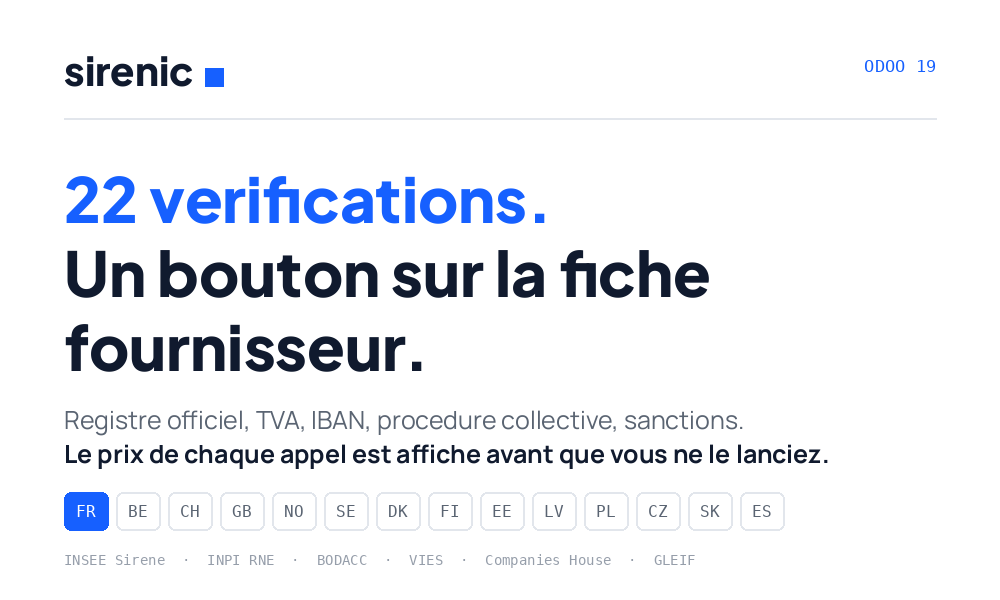
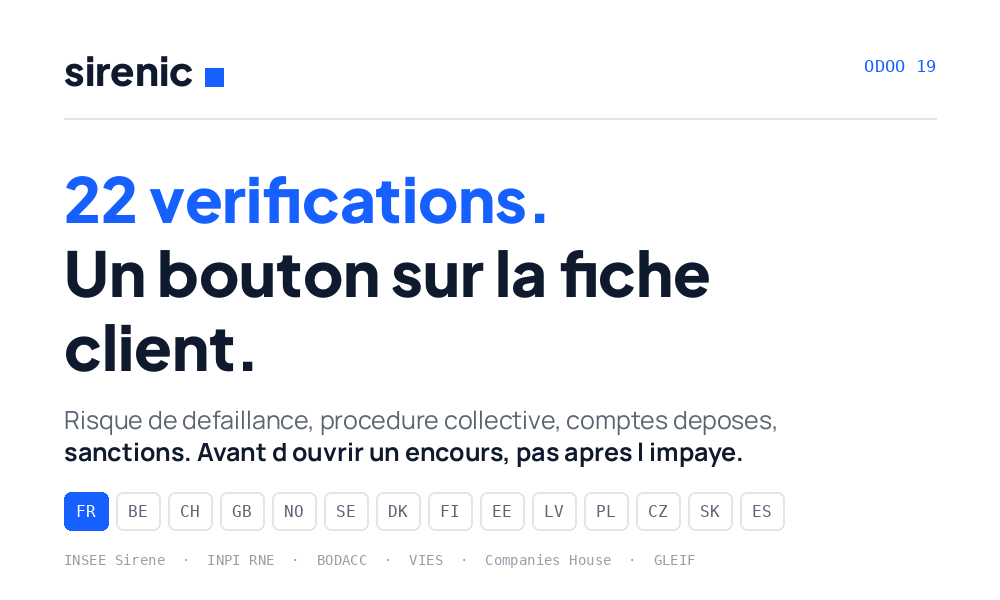
Recentrage sur le CLIENT : evaluer avant d ouvrir un encours, pas seulement verifier avant de payer.
POURQUOI. Le geste fournisseur repond a puis-je payer celui-ci ; le geste client repond a puis-je lui ouvrir un encours. Ce sont deux questions distinctes, sur deux routes distinctes, et la seconde touche bien plus de monde dans Odoo : tout le flux vente passe par la fiche client, et un impaye coute plus cher qu un virement mal adresse.

NOUVEAU GESTE PRINCIPAL : Evaluer ce client, sur /v1/score/defaillance. Il rend la classe de risque, le risque a 12 mois et les signaux BODACC. Verifier ce fournisseur reste, en second bouton : le module fait desormais les deux, dans cet ordre.

CE QUE LE RAPPORT DIT, ET QUI COMPTE PLUS QUE LE SCORE. (1) Un signal BODACC PRIME sur le score : une liquidation en cours ne se discute pas avec un ratio, l en-tete bascule au rouge et dit qu aucun encours ne devrait etre ouvert sans verification. (2) L AGE DES COMPTES est ecrit en clair des dix-huit mois - le dossier reel de l entreprise d essai s appuie sur un exercice vieux de VINGT mois, et un score bati la-dessus ne dit rien du trimestre en cours ; le taire rendrait le chiffre plus sur qu il ne l est. (3) L avertissement de l API est repris MOT POUR MOT : ni un avis de solvabilite, ni une notation de credit. Presenter ce score comme une notation ferait porter au lecteur une conclusion que la donnee ne permet pas.
[…]

Changed region(s): [[0.062, 0.69, 0.837, 0.78], [0.062, 0.54, 0.434, 0.63]]

diff --git a/sirenic/static/description/index.html b/sirenic/static/description/index.html
@@ -1,40 +1,45 @@
 <section class="oe_container">
   <div class="oe_row oe_spaced">
-    <h2 class="oe_slogan">V&#233;rifier un fournisseur avant de le payer</h2>
-    <h3 class="oe_slogan">Registre officiel, TVA, IBAN, proc&#233;dure collective, sanctions. France et 12 pays d'Europe.</h3>
+    <h2 class="oe_slogan">Savoir &#224; qui vous vendez, avant d'ouvrir un encours</h2>
+    <h3 class="oe_slogan">Risque de d&#233;faillance, proc&#233;dure collective, comptes d&#233;pos&#233;s, sanctions. France et 12 pays d'Europe.</h3>
   </div>
 
   <div class="oe_row oe_spaced">
     <div class="oe_span12">
       <p class="oe_mt32">
-        Un bouton sur la fiche contact r&#233;pond &#224; une question simple :
-        <b>peut-on payer cette entreprise ?</b> La r&#233;ponse arrive en trois secondes,
-        motiv&#233;e, tir&#233;e des registres officiels.
+        Un client vous demande 30 jours de paiement. Un bouton sur sa fiche vous
+        dit sa classe de risque, son risque de d&#233;faillance &#224; 12 mois, et si le
+        BODACC a publi&#233; une proc&#233;dure collective &#224; son nom. Trois secondes, avant
+        la commande, pas apr&#232;s l'impay&#233;.
       </p>
     </div>
   </div>
 
   <div class="oe_row oe_spaced">
     <div class="oe_span12">
-      <h3>Quatre gestes sur la fiche contact</h3>
+      <h3>Cinq gestes sur la fiche contact</h3>
       <p>
-        <b>V&#233;rifier avec Sirenic.</b> Identit&#233; au registre, num&#233;ro de TVA contr&#244;l&#233;
-        au VIES, IBAN v&#233;rifi&#233;, proc&#233;dure collective en cours. Verdict motiv&#233;,
-        raisons en liste ferm&#233;e.
+        <b>&#201;valuer ce client.</b> Classe de risque, risque &#224; 12 mois, signaux du
+        BODACC. Le rapport dit l'&#226;ge des comptes sur lesquels il s'appuie, et
+        rappelle que ce n'est ni un avis de solvabilit&#233; ni une notation de cr&#233;dit.
       </p>
       <p>
-        <b>Compl&#233;ter depuis le registre.</b> Tapez un nom ou un SIREN. Choisissez
-        l'entreprise. Le nom, la rue, le code postal, la ville, le num&#233;ro de TVA et
-        le SIRET se remplissent seuls. Plus de saisie manuelle, plus de coquille.
+        <b>V&#233;rifier ce fournisseur.</b> Identit&#233; au registre, num&#233;ro de TVA
+        contr&#244;l&#233; au VIES, IBAN v&#233;rifi&#233;, proc&#233;dure collective. Avant le virement.
       </p>
       <p>
-        <b>Dossier KYB.</b> Identit&#233;, alertes l&#233;gales du BODACC, comptes d&#233;pos&#233;s,
-        criblage contre les listes de sanctions officielles. Rendu lisible dans le
-        fil de discussion, dat&#233;, comme trace de ce qui a &#233;t&#233; v&#233;rifi&#233; et quand.
+        <b>Dossier KYB.</b> Identit&#233;, alertes l&#233;gales, comptes d&#233;pos&#233;s, criblage
+        contre les listes de sanctions officielles. Rendu lisible dans le fil de
+        discussion, dat&#233;, comme trace de ce qui a &#233;t&#233; v&#233;rifi&#233; et quand.
+      </p>
+      <p>
+        <b>Compl&#233;ter depuis le registre.</b> Tapez un nom ou un SIREN. Le nom, la
+        rue, le code postal, la ville, le num&#233;ro de TVA et le SIRET se remplissent
+        seuls. Plus de saisie manuelle, plus de coquille.
       </p>
       <p>
         <b>22 autres v&#233;rifications.</b> Comptes annuels, d&#233;tention du capital,
-        agr&#233;ments r&#233;glementaires, march&#233;s publics remport&#233;s, score de d&#233;faillance.
+        agr&#233;ments r&#233;glementaires, march&#233;s publics remport&#233;s, alertes BODACC.
         Le co&#251;t de chaque appel est affich&#233; avant que vous ne le lanciez.
       </p>
     </div>
@@ -64,8 +69,7 @@
       <p>
         Le module ne co&#251;te rien et ne demande aucune cl&#233; d'activation. Les appels
         &#224; l'API sont factur&#233;s &#224; l'unit&#233; par Sirenic, &#224; partir de 0,002 $, avec la
-        cl&#233; que vous cr&#233;ez sur api.sirenic.eu. Vous voyez le prix avant de cliquer,
-        et rien n'est pr&#233;lev&#233; par ce module.
+        cl&#233; que vous cr&#233;ez sur api.sirenic.eu. Vous voyez le prix avant de cliquer.
       </p>
     </div>
   </div>
@@ -74,16 +78,22 @@
     <div class="oe_span12">
       <h3>Ce que ce module ne fait pas</h3>
       <p>
+        <b>Le score de risque n'est pas une notation de cr&#233;dit.</b> C'est un
+        indicateur d'aide &#224; la d&#233;cision, non contractuel, b&#226;ti sur les comptes
+        d&#233;pos&#233;s. Quand ces comptes datent de plus de dix-huit mois, le rapport le
+        dit : un chiffre ne doit pas para&#238;tre plus s&#251;r qu'il ne l'est.
+      </p>
+      <p>
         L'identifiant national n'est d&#233;duit du num&#233;ro de TVA que pour la France,
         la Belgique et la Pologne, o&#249; la correspondance est document&#233;e. Ailleurs,
-        seul le contr&#244;le VIES du num&#233;ro est possible, et le module l'&#233;crit noir sur
-        blanc plut&#244;t que de deviner un identifiant de registre. Une donn&#233;e plausible
-        et fausse co&#251;te plus cher qu'une donn&#233;e absente.
+        seul le contr&#244;le VIES du num&#233;ro est possible, et le module l'&#233;crit plut&#244;t
+        que de deviner un identifiant de registre. Une donn&#233;e plausible et fausse
+        co&#251;te plus cher qu'une donn&#233;e absente.
       </p>
       <p>
         Une correspondance de criblage signale un <b>homonyme &#224; lever</b> sur les
         listes officielles. Elle n'&#233;tablit pas qu'une personne ou une entreprise
-        est sanctionn&#233;e, et le rapport le dit.
+        est sanctionn&#233;e, et le rapport le pr&#233;cise.
       </p>
     </div>
   </div>

diff --git a/sirenic/models/sirenic_mapping.py b/sirenic/models/sirenic_mapping.py
@@ -141,3 +141,73 @@ def rapport_kyb_html(corps):
             "entreprise est sanctionnée.</i></p>" if touchees else "")
     return "<div><h4>Dossier KYB Sirenic</h4>%s<table>%s</table>%s%s%s</div>" % (
         entete, corps_html, note, absent, pied)
+
+
+# Classes de risque, de la plus saine a la plus degradee. La couleur suit la
+# CLASSE rendue par l API, jamais une interpretation locale du score.
+_COULEUR_CLASSE = {
+    "sain": "#080", "correct": "#080", "a_surveiller": "#b60",
+    "fragile": "#b00", "critique": "#b00", "defaillant": "#b00",
+}
+
+
+def rapport_score_html(corps):
+    """Le risque de defaillance d un CLIENT, rendu pour decider d un encours.
+
+    ⚠ CE N EST PAS UNE NOTE DE CREDIT, et l API le dit dans son propre
+    disclaimer : « NI un avis de solvabilite, NI une notation de credit ».
+    Le rapport le reprend mot pour mot. Presenter ce score comme une notation
+    ferait porter au lecteur une conclusion que la donnee ne permet pas.
+    """
+    classe = corps.get("classe") or "inconnue"
+    couleur = _COULEUR_CLASSE.get(classe, "#666")
+    signaux = corps.get("signaux_bodacc") or {}
+
+    # Un signal BODACC prime sur le score : une liquidation en cours ne se
+    # discute pas avec un ratio.
+    alarmes = [nom.replace("_", " ") for nom, present in signaux.items() if present]
+    if alarmes:
+        entete = ("<p style='color:#b00'><b>Signal au BODACC :</b> %s. "
+                  "Aucun encours ne devrait etre ouvert sans verification.</p>"
+                  % ", ".join(alarmes))
+    else:
+        entete = ("<p style='color:%s'><b>Classe de risque : %s</b> "
+                  "(risque a 12 mois : %s)</p>"
+                  % (couleur, classe, corps.get("risque_12m") or "non calcule"))
+
+    lignes = [
+        ("Denomination", corps.get("denomination")),
+        ("Classe de risque", classe),
+        ("Risque a 12 mois", corps.get("risque_12m")),
+        ("Score", corps.get("score_risque")),
+        ("Confiance du modele", corps.get("confiance")),
+        ("Exercice de reference", "%s (%s mois d anciennete)"
+            % (corps.get("exercice_reference"), corps.get("age_exercice_mois"))
+            if corps.get("exercice_reference") else None),
+    ]
+    table = "".join(
+        "<tr><td style='padding:2px 12px 2px 0'><b>%s</b></td><td>%s</td></tr>" % (k, v)
+        for k, v in lignes if v not in (None, "")
+    )
+
+    # ⚠ L AGE DE L EXERCICE EST DECISIF et doit se lire sans le chercher : un
+    # score bati sur des comptes de vingt mois ne dit rien du trimestre en
+    # cours. Le taire rendrait le chiffre plus sur qu il ne l est.
+    age = corps.get("age_exercice_mois")
+    vieux = ("<p style='color:#b60'><i>Ce score repose sur des comptes vieux de "
+             "%s mois : il ne dit rien de la situation recente.</i></p>" % age
+             if isinstance(age, int) and age >= 18 else "")
+
+    reserves = []
+    for cle in ("avertissement_perimetre", "note_tresorerie"):
+        if corps.get(cle):
+            reserves.append(str(corps[cle]).split(" / ")[0])
+    bloc_reserves = ("<p style='font-size:90%%;color:#666'>%s</p>" % " ".join(reserves)
+                     if reserves else "")
+
+    avert = ("<p style='font-size:90%;color:#666'><b>Ce n'est ni un avis de "
+             "solvabilite, ni une notation de credit</b>, mais un indicateur "
+             "d aide a la decision, non contractuel.</p>")
+
+    return ("<div><h4>Risque de defaillance</h4>%s<table>%s</table>%s%s%s</div>"
+            % (entete, table, vieux, bloc_reserves, avert))

diff --git a/sirenic/models/res_partner.py b/sirenic/models/res_partner.py
@@ -7,7 +7,7 @@ from odoo import _, models
 from odoo.exceptions import UserError
 
 from .routes import ROUTES
-from .sirenic_mapping import rapport_kyb_html
+from .sirenic_mapping import rapport_kyb_html, rapport_score_html
 
 # Pays dont le numéro de TVA se TERMINE par l'identifiant national, et dont
 # nous savons donc l'extraire sans inventer de correspondance.
@@ -166,4 +166,33 @@ class ResPartner(models.Model):
             "target": "new",
             "context": {"default_partner_id": self.id,
                         "default_recherche": self.name or ""},
+        }
+
+    def action_sirenic_client(self):
+        """Le geste principal cote CLIENT : peut-on lui ouvrir un encours ?
+
+        Le score de defaillance repond directement a cette question, la ou le
+        dossier de facturation repond a « puis-je payer ce fournisseur ». Ce
+        sont deux gestes distincts, sur deux routes distinctes.
+        """
+        self.ensure_one()
+        siren = self._sirenic_siren()
+        if not siren:
+            raise UserError(_(
+                "Aucun SIREN exploitable sur cette fiche.\n\n"
+                "Renseignez le SIRET ou le numero de TVA francaise, ou utilisez "
+                "la saisie assistee pour completer la fiche depuis le registre."))
+        corps = self.env["sirenic.client"].appeler("/v1/score/defaillance/%s" % siren)
+        self.message_post(body=Markup(rapport_score_html(corps)))
+        signaux = corps.get("signaux_bodacc") or {}
+        alerte = any(signaux.values())
+        return {
+            "type": "ir.actions.client",
+            "tag": "display_notification",
+            "params": {
+                "title": _("Signal au BODACC") if alerte else _("Classe de risque : %s", corps.get("classe")),
+                "message": _("Risque a 12 mois : %s", corps.get("risque_12m") or _("non calcule")),
+                "type": "warning" if alerte else "success",
+                "sticky": False,
+            },
         }

diff --git a/essai-client.py b/essai-client.py
@@ -1,0 +1,21 @@
+import os
+ok = ko = 0
+def v(c, q):
+    global ok, ko
+    ok, ko = ok + (1 if c else 0), ko + (0 if c else 1)
+    print(("  OK   " if c else "  ECHEC"), q)
+P = env["ir.config_parameter"].sudo()
+P.set_param("sirenic.api_key", os.environ["SIRENIC_KEY"]); P.set_param("sirenic.consent", "True")
+p = env["res.partner"].create({"name": "Client d essai", "is_company": True, "vat": "FR27552032534"})
+avant = len(p.message_ids)
+r = p.action_sirenic_client()
+p.invalidate_recordset()
+v(len(p.message_ids) > avant, "un rapport ajoute au fil")
+corps = p.message_ids.sorted("id", reverse=True)[0].body or ""
+v("Risque de defaillance" in corps, "titre du rapport present")
+v("&lt;" not in corps, "HTML rendu, pas echappe")
+v("notation de credit" in corps, "l avertissement de l API est visible par le lecteur")
+v("mois d anciennete" in corps or "anciennete" in corps, "l age des comptes est dit")
+v(r["params"]["type"] in ("success", "warning"), "notification typee : %s" % r["params"]["type"])
+v("Classe de risque" in r["params"]["title"] or "BODACC" in r["params"]["title"], "titre : %s" % r["params"]["title"])
+print("\n%d verifications, %d en echec" % (ok + ko, ko))

diff --git a/sirenic/__manifest__.py b/sirenic/__manifest__.py
@@ -4,8 +4,8 @@
     "name": "Sirenic KYB & risque",
     "version": "19.0.1.0.0",
     "category": "Accounting/Accounting",
-    "summary": "Verifier un fournisseur avant de le payer : registre officiel, TVA, IBAN, "
-               "procedure collective, sanctions. France et 12 pays d'Europe.",
+    "summary": "Savoir a qui vous vendez avant d'ouvrir un encours : risque de defaillance, "
+               "procedure collective, comptes deposes, sanctions. France et 12 pays d'Europe.",
     "author": "Sirenic",
     "website": "https://api.sirenic.eu",
     "license": "LGPL-3",
